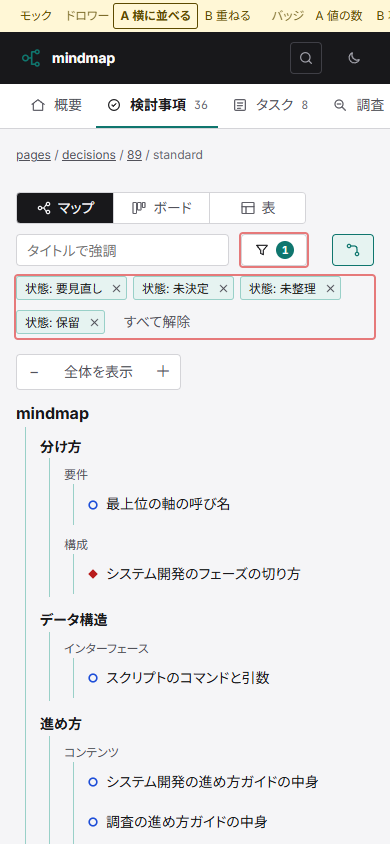
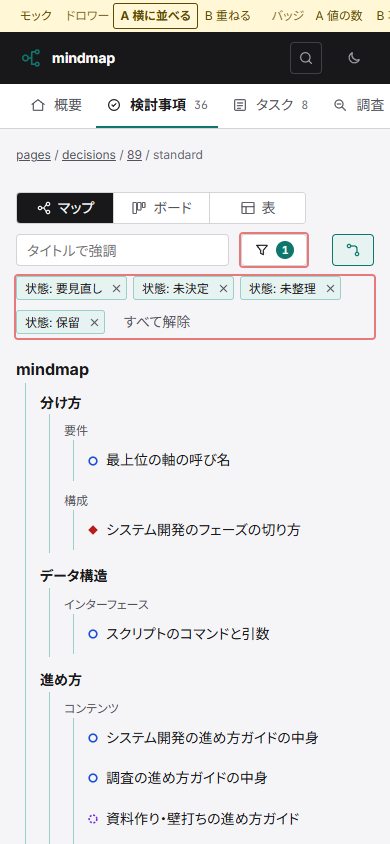
docs: #89 のモックにボードで外した列を隠す案を足し、マップの空の旨と外した列を撮る

diff --git a/dev/mock/refs/89/assets/app.js b/dev/mock/refs/89/assets/app.js
@@ -42,6 +42,7 @@
     if (state.badge !== "C") p.set("badge", state.badge);
     if (state.band !== "A") p.set("band", state.band);
     if (state.dw !== "A") p.set("dw", state.dw);
+    if (state.col !== "A") p.set("col", state.col);
     const h = p.toString();
     return `${PAGES}${SCREEN_OF[tab]}/89/${MOCK_VARIANT}/index.html${h ? "#" + h : ""}`;
   };
@@ -247,9 +248,11 @@
   const BANDS = [["A", "A 帯を外す"], ["B", "B 凡例で残す"]];
   // ドロワーの出し方の案: A = 広い幅では本文の横に並べ、選ぶたびに変わる結果を見ながら選ぶ（推奨）/ B = どの幅でも本文に重ねるモーダル
   const DRAWERS = [["A", "A 横に並べる"], ["B", "B 重ねる"]];
+  // ボードで状態の条件から外した列の案: A = 列を残して外していることを書く（推奨）/ B = 列を隠す
+  const COLS = [["A", "A 列を残す"], ["B", "B 列を隠す"]];
   // 検討事項は、どの表示形式でも状態で要見直し・未決定・未整理・保留を選んだ状態で開く
   const DECISION_DEFAULT = ["要見直し", "未決定", "未整理", "保留"];
-  const state = { zoom: 1, tab: "overview", view: "table", panel: null, full: false, sim: "", badge: "C", band: "A", dw: "A", mapQ: "", tables: {}, graphF: {}, deps: true };
+  const state = { zoom: 1, tab: "overview", view: "table", panel: null, full: false, sim: "", badge: "C", band: "A", dw: "A", col: "A", mapQ: "", tables: {}, graphF: {}, deps: true };
   for (const k of Object.keys(COLUMNS)) state.tables[k] = { q: "", filters: k === "decisions" ? { status: new Set(DECISION_DEFAULT) } : {}, sort: null };
   const colPrefs = (kind) => (prefs.cols[kind] ??= { hidden: COLUMNS[kind].filter((c) => c.hidden).map((c) => c.key), pin: 0 });
 
@@ -267,6 +270,7 @@
     state.badge = BADGES.some(([v]) => v === p.get("badge")) ? p.get("badge") : "C";
     state.band = BANDS.some(([v]) => v === p.get("band")) ? p.get("band") : "A";
     state.dw = DRAWERS.some(([v]) => v === p.get("dw")) ? p.get("dw") : "A";
+    state.col = COLS.some(([v]) => v === p.get("col")) ? p.get("col") : "A";
     if (first) {
       // f.{列} があるときは、既定の条件に代えてその条件だけで開く
       const fs = [...p].filter(([k]) => k.startsWith("f."));
@@ -290,6 +294,7 @@
     if (state.badge !== "C") p.set("badge", state.badge);
     if (state.band !== "A") p.set("band", state.band);
     if (state.dw !== "A") p.set("dw", state.dw);
+    if (state.col !== "A") p.set("col", state.col);
     const h = p.toString();
     return h ? "#" + h : location.pathname;
   };
@@ -511,6 +516,8 @@
 
   // ===== ボード（検討事項・タスク） =====
   // 状態の条件で外した列も残し、外していることを列の中に書く
+  // 案 B では、状態の条件で外した列を出さない
+  const boardCols = (kind, cols) => state.col === "B" && fstate(kind).status?.size ? cols.filter((st) => fstate(kind).status.has(st)) : cols;
   const emptyCol = (kind, st) => fstate(kind).status?.size && !fstate(kind).status.has(st)
     ? `<p class="empty">状態の条件で外しています。</p>` : `<p class="empty">${KIND_NOUN[kind]}はありません。</p>`;
   const boardCard = (kind, r) => kind === "decisions"
@@ -518,7 +525,7 @@
     : `<button class="card" data-act="open" data-id="${r.id}"><div class="c-ttl">${esc(r.title)}</div><div class="c-meta"><span class="mono">${r.id}</span><span>${esc(r.kind)}</span><span>${esc(r.category)}</span></div>${(r.for || []).length ? `<div class="c-for">${r.for.map((id) => `<div><span class="mono">${id}</span> ${esc(titleOf(id))}</div>`).join("")}</div>` : ""}</button>`;
   const renderBoard = (kind = "tasks") => {
     const rows = rowsFor(kind);
-    const cols = BOARD_COLS[kind];
+    const cols = boardCols(kind, BOARD_COLS[kind]);
     return `<div class="board" style="--cols:${cols.length}">${cols.map((st) => {
       const cards = rows.filter((r) => r.status === st);
       return `<section class="board-col" aria-label="${st}"><h3>${mark(st)}${st}<span class="n">${cards.length}</span></h3>${cards.length ? cards.map((r) => boardCard(kind, r)).join("") : emptyCol(kind, st)}</section>`;
@@ -531,7 +538,8 @@
   const docBoardCard = (r) => `<button class="card doc-card${r.deliverable ? " deliv-card" : ""}${state.panel === r.id ? " selected" : ""}" data-act="open" data-id="${r.id}">${r.deliverable ? `<span class="deliv-badge">${icon("box")}納品物</span>` : ""}<span class="doc-kind">${icon(r.kind === "図" ? "graph" : "cards")}${esc(r.kind)}</span><span class="c-ttl">${esc(r.title)}</span><span class="c-meta"><span class="mono">${r.id}</span><span>${esc(r.category)} · ${esc(r.stage)}</span></span>${(r.tags || []).length ? `<span class="c-tags">${tags(r.tags)}</span>` : ""}</button>`;
   const renderDocBoard = () => {
     const rows = orderDocs(rowsFor("docs"));
-    return `<div class="board doc-board" style="--cols:${DOC_STATUS.length}">${DOC_STATUS.map((st) => {
+    const cols = boardCols("docs", DOC_STATUS);
+    return `<div class="board doc-board" style="--cols:${cols.length}">${cols.map((st) => {
       const cards = rows.filter((r) => r.status === st);
       return `<section class="board-col" aria-label="${st}"><h3>${mark(st)}${st}<span class="n">${cards.length}</span></h3>${cards.length ? cards.map(docBoardCard).join("") : emptyCol("docs", st)}</section>`;
     }).join("")}</div>`;
@@ -1221,8 +1229,10 @@
     const bar = document.getElementById("mock-states");
     const group = (label, act, list, cur) => `<span class="mock-group" role="group" aria-label="${label}"><span class="mock-label">${label}</span>${list.map(([v, l]) => `<button type="button" data-act="${act}" data-v="${v}" aria-pressed="${cur === v}">${l}</button>`).join("")}</span>`;
     const hasBand = SCREEN === "graph" || (SCREEN === "decisions" && state.view === "map");
+    const hasBoard = ["decisions", "tasks", "docs"].includes(SCREEN) && state.view === "board";
     bar.innerHTML = (SCREEN === "overview" ? "" : group("ドロワー", "mdw", DRAWERS, state.dw) + group("バッジ", "mbadge", BADGES, state.badge))
       + (hasBand ? group("帯", "mband", BANDS, state.band) : "")
+      + (hasBoard ? group("外した列", "mcol", COLS, state.col) : "")
       + group("状態", "sim", SIMS, state.sim);
   };
   // 見てきた項目の並び（trail）と今の位置（pos）を履歴の状態に持つ
@@ -1400,6 +1410,7 @@
       case "dclearall": for (const k of Object.keys(fstate(state.tab))) delete fstate(state.tab)[k]; changeFilter(".fd-body input"); break;
       case "mbadge": state.badge = el.dataset.v; history.replaceState(null, "", hashOf()); render(); break;
       case "mband": state.band = el.dataset.v; history.replaceState(null, "", hashOf()); lastScreen = ""; render(); break;
+      case "mcol": state.col = el.dataset.v; history.replaceState(null, "", hashOf()); render(); break;
       case "mdw": state.dw = el.dataset.v; history.replaceState(null, "", hashOf()); if (drawerDlg.open) { drawerDlg.close(); openDrawer(); } render(); break;
       case "zoom": {
         const cur = state.zoom === "fit" ? 0.6 : state.zoom, zd = el.dataset.z;

diff --git a/dev/mock/refs/89/assets/style.css b/dev/mock/refs/89/assets/style.css
@@ -119,3 +119,9 @@ dialog.drawer .btn[hidden] { display: none; }
 
 /* ドロワーが左からすべり込む動き */
 @keyframes fd-in { from { transform: translateX(-24px); opacity: 0; } to { transform: none; opacity: 1; } }
+
+/* 狭い幅ではマップを描かず縦の一覧にするため、マップの拡大率の操作も出さない */
+@media (max-width: 720px) {
+  /* マップの拡大率の操作 */
+  .map-view .zoom { display: none; }
+}

diff --git a/dev/mock/refs/89/index.md b/dev/mock/refs/89/index.md
@@ -2,7 +2,7 @@
 
 話題のタグを付け、今ある画面を 1 つのドロワーで種類・状態・タグで絞り込めるようにする（[PR #89](https://github.com/shuhei1101/mindstella/pull/89)）。
 画面は 52 の見本のデータのタグを話題のタグに置き換えたもの（`assets/data.js`）と、71 のスクリプトの絞り込みを 1 つの絞り込みのボタンとドロワーにしたもの（`assets/app.js`）を読み、スタイルは 71 の上に絞り込みの分（`assets/style.css`）を重ねる。
-モック専用の操作列で、ドロワーの出し方・件数のバッジに出す数・マップとつながりの帯の扱いの案と、配る書き出し・描画のライブラリが読めない状態に切り替える。
+モック専用の操作列で、ドロワーの出し方・件数のバッジに出す数・マップとつながりの帯の扱い・ボードで状態の条件から外した列の案と、配る書き出し・描画のライブラリが読めない状態に切り替える。
 URL のハッシュに `drawer=1` を足すと、ドロワーを開いた状態で開く。
 
 | 画面 | 中身 |
